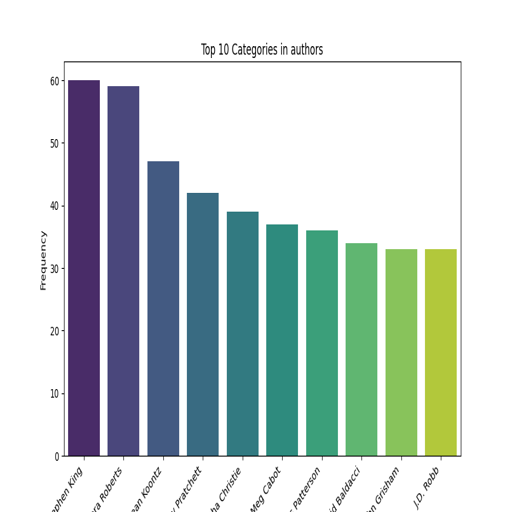
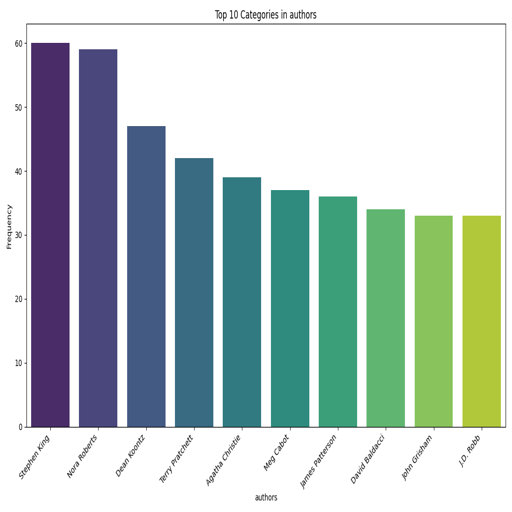
Update project files and fix visualization issues

diff --git a/autolysis.py b/autolysis.py
@@ -89,18 +89,24 @@ def visualize_numeric_distributions(data, column, filename):
     plt.close()
 
 def visualize_categorical_counts(data, column, filename):
+    """Generates a bar chart for the top 10 categories in a column."""
     sanitized_filename = sanitize_filename(filename)
-    plt.figure(figsize=(10, 6))
+    plt.figure(figsize=(12, 8))  # Increase figure size for readability
     sns.barplot(
-        x=data[column].value_counts().index[:10],
-        y=data[column].value_counts().values[:10],
-        palette="viridis",
+        x=data[column].value_counts().index[:10],  # Top 10 categories
+        y=data[column].value_counts().values[:10],  # Corresponding frequencies
+        palette="viridis"
     )
-    plt.xticks(rotation=45, ha="right")
+    plt.xticks(rotation=45, ha="right")  # Rotate labels for readability
     plt.title(f"Top 10 Categories in {column}")
     plt.xlabel(column)
     plt.ylabel("Frequency")
-    plt.savefig(sanitized_filename)
+    
+    # Automatically adjust layout to fit labels
+    plt.tight_layout()
+    
+    # Save the plot
+    plt.savefig(filename)
     plt.close()
 
 def create_visualizations(data, data_summary, output_dir):
